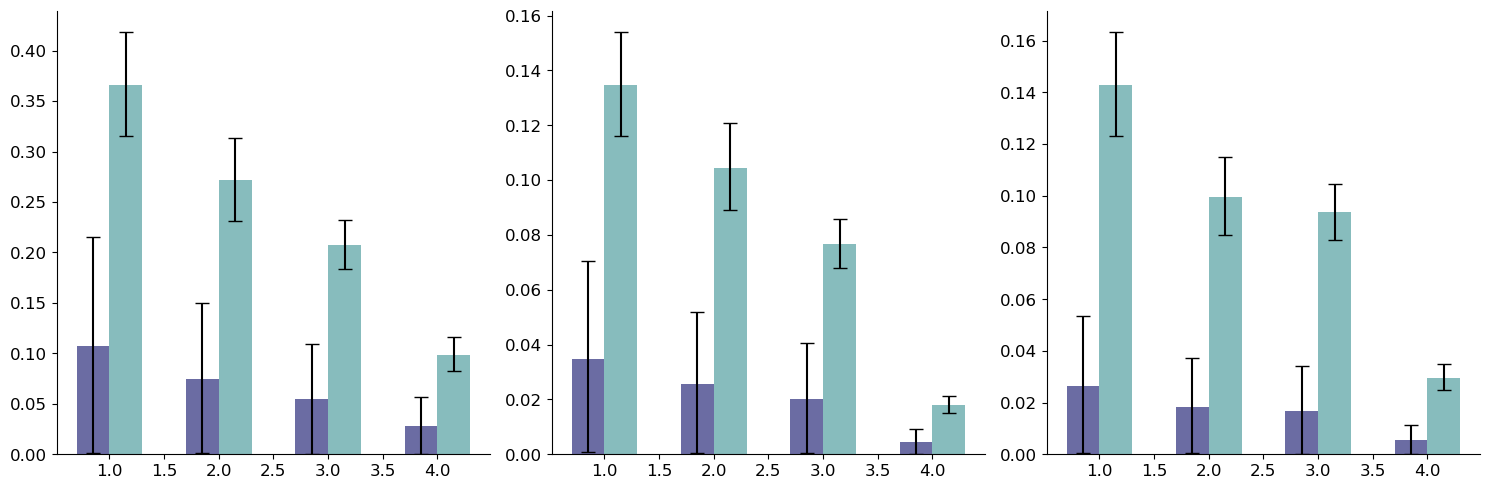
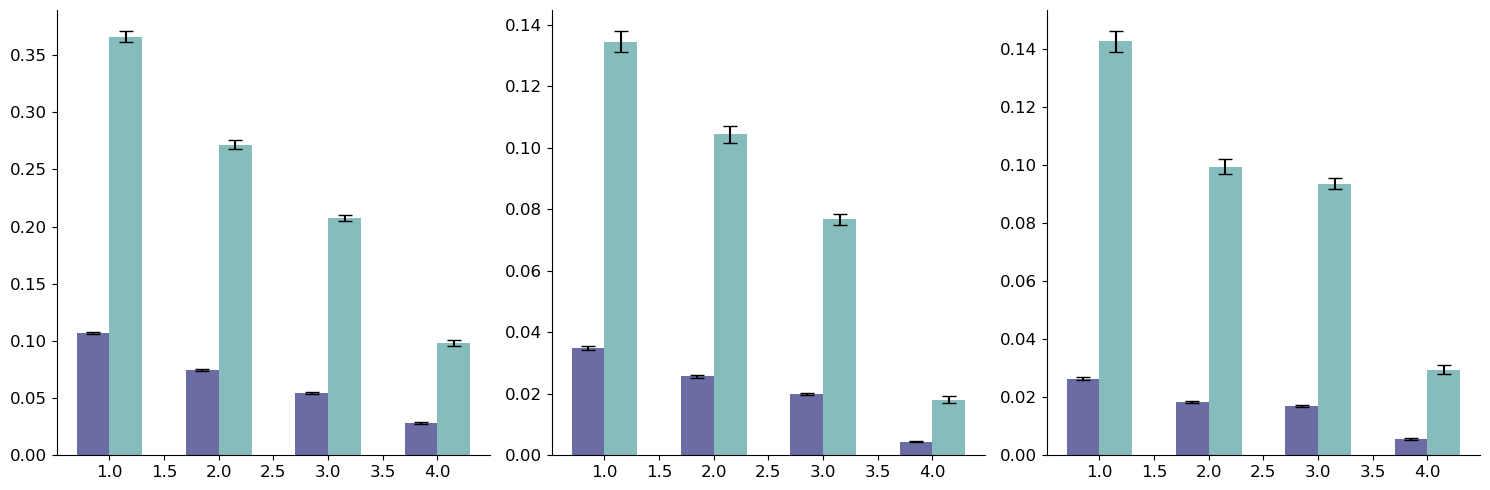
fix: Correct the calculation of the confidence interval for the population older than 60 years. The corresponding plot of the proportion's histogram is also corrected; now it shows the right errorbars.

diff --git a/severe_outcomes/scripts/proportions.py b/severe_outcomes/scripts/proportions.py
@@ -57,7 +57,8 @@ df_hosp = df_hosp.replace({'age_group':age_group_dic})
 df_icu = df_icu.replace({'age_group':age_group_dic})
 df_death = df_death.replace({'age_group':age_group_dic})
 
-df_confirmed_bogota = ut.get_wave(df_confirmed_bogota, start_date='onset', waves=df_waves)
+# df_confirmed_bogota = ut.get_wave(df_confirmed_bogota, start_date='onset', waves=df_waves)
+# %%
 df_confirmed_bogota = ut.age_group_60(df=df_confirmed_bogota, var='age', var_unit='age_unit')
 df_confirmed_bogota.dropna(subset=['wave'], inplace=True)
 
@@ -85,9 +86,9 @@ hosp_all_err = proportion_confint(count=hosp_all, nobs=cases_all, alpha=alpha)
 icu_all_err = proportion_confint(count=icu_all, nobs=cases_all, alpha=alpha)
 death_all_err = proportion_confint(count=death_all, nobs=cases_all, alpha=alpha)
 
-hosp_60p_err = proportion_confint(count=hosp_60p, nobs=cases_all, alpha=alpha)
-icu_60p_err = proportion_confint(count=icu_60p, nobs=cases_all, alpha=alpha)
-death_60p_err = proportion_confint(count=death_60p, nobs=cases_all, alpha=alpha)
+hosp_60p_err = proportion_confint(count=hosp_60p, nobs=cases_60p, alpha=alpha)
+icu_60p_err = proportion_confint(count=icu_60p, nobs=cases_60p, alpha=alpha)
+death_60p_err = proportion_confint(count=death_60p, nobs=cases_60p, alpha=alpha)
 
 # Constructing the dataframes with the results
 data_all = {
@@ -121,6 +122,3 @@ data_60p = {
     }
 df_counts_60p = pd.DataFrame(data=data_60p, dtype=float)
 df_counts_60p.to_csv(OUT_PATH + 'proportions_60p.csv',index = False)
-
-
-# %%

diff --git a/plot_scripts/plot_results_severe_outcomes.py b/plot_scripts/plot_results_severe_outcomes.py
@@ -131,8 +131,8 @@ plot_counts_hist()
 # Auxiliar plot function
 def plot_proportions_histogram(df, ax, outcome_var, prop_lower, prop_upper, total_var='cases', strat='wave', side='center', width=0.3):
     proportions = df[outcome_var].values
-    yerr_lower = df[prop_lower].values
-    yerr_upper = df[prop_upper].values
+    yerr_lower = proportions - df[prop_lower].values
+    yerr_upper = df[prop_upper].values - proportions
     yerr = [yerr_lower, yerr_upper]
     if side=='center':
         ax.bar(df[strat], proportions, yerr=yerr, width=width)
